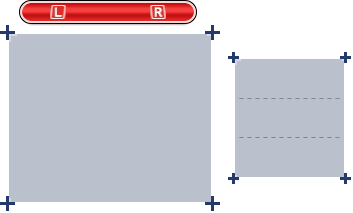
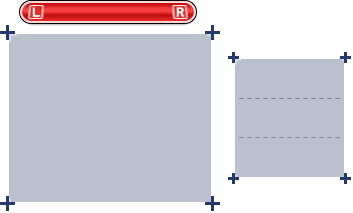
Fixing top bank graphic to have more space. Fixing Event Wondercard to add support of Yes and No buttons. Adding some support of Multi Language on Hex Editor

Changed region(s): [[0.4051, 0.0, 0.5297, 0.1127], [0.0623, 0.0, 0.187, 0.1127]]

diff --git a/source/graphic.c b/source/graphic.c
@@ -41,7 +41,7 @@ int logo_lookup5[5] = {0, 53, 104, 176, 252};
 
 int lookup[] = {0x0, 0x1, 0x2, 0x4, 0x5, 0x3};
 
-int MAX_LENGTH_BOX_NAME = 12;
+int MAX_LENGTH_BOX_NAME = 15;
 
 sftd_font *unicodeJPN12, *unicodeKOR12, *fontBold18, *fontBold15, *fontBold14, *fontBold12, *fontBold11, *fontBold9, *fontFixed; 
 sf2d_texture *noMove, *hexIcon, *hexBG, *blueTextBox, *otaButton, *generationBG, *includeInfoButton, *hiddenPowerBG, *ballsBG, *male, *female, *naturestx, *movesBottom, *topMovesBG, *editorBar, *editorStatsBG, *subArrow, *backgroundTop, *miniBox, *plusButton, *minusButton, *balls, *typesSheet, *transferButton, *bankTop, *shinyStar, *normalBar, *LButton, *RButton, *creditsTop, *pokeball, *gameSelectorBottom1, *gameSelectorBottom2, *gameSelectorTop, *menuBar, *menuSelectedBar, *darkButton, *eventTop, *left, *lightButton, *redButton, *right, *spritesSmall, *eventMenuBottomBar, *eventMenuTopBarSelected, *eventMenuTopBar, *warningTop, *warningBottom, *boxView, *infoView, *selector, *editorBG, *plus, *minus, *back, *setting, *selectorCloning, *button, *bottomPopUp, *pokemonBufferBox, *DSBottomBG, *DSTopBG, *DSBarSelected, *DSBar, *DSEventBottom, *DSLangSelected, *DSLang, *DSEventTop, *DSNormalBarL, *DSNormalBarR, *DSSelectedBarL, *DSSelectedBarR, *settings, *item, *alternativeSpritesSmall;
@@ -928,10 +928,10 @@ void printDB7(int sprite, int i, bool langVett[], bool adapt, bool overwrite, in
 		
 		sf2d_draw_texture(darkButton, 229, 168);	
 		
-		sftd_draw_text(fontBold14, 210 + (36 - sftd_get_text_width(fontBold14, 14, "Yes")) / 2, 112, (overwrite) ? DARKBLUE : YELLOW, 14, "Yes");
-		sftd_draw_text(fontBold14, 249 + (36 - sftd_get_text_width(fontBold14, 14, "No")) / 2, 112, (!overwrite) ? DARKBLUE : YELLOW, 14, "No");
-		sftd_draw_text(fontBold14, 210 + (36 - sftd_get_text_width(fontBold14, 14, "Yes")) / 2, 140, (adapt) ? DARKBLUE : YELLOW, 14, "Yes");
-		sftd_draw_text(fontBold14, 249 + (36 - sftd_get_text_width(fontBold14, 14, "No")) / 2, 140, (!adapt) ? DARKBLUE : YELLOW, 14, "No");
+		sftd_draw_wtext(fontBold14, 210 + (36 - sftd_get_wtext_width(fontBold14, 14, i18n(S_BUTTON_YES))) / 2, 112, (overwrite) ? DARKBLUE : YELLOW, 14, i18n(S_BUTTON_YES));
+		sftd_draw_wtext(fontBold14, 249 + (36 - sftd_get_wtext_width(fontBold14, 14, i18n(S_BUTTON_NO))) / 2, 112, (!overwrite) ? DARKBLUE : YELLOW, 14, i18n(S_BUTTON_NO));
+		sftd_draw_wtext(fontBold14, 210 + (36 - sftd_get_wtext_width(fontBold14, 14, i18n(S_BUTTON_YES))) / 2, 140, (adapt) ? DARKBLUE : YELLOW, 14, i18n(S_BUTTON_YES));
+		sftd_draw_wtext(fontBold14, 249 + (36 - sftd_get_wtext_width(fontBold14, 14, i18n(S_BUTTON_NO))) / 2, 140, (!adapt) ? DARKBLUE : YELLOW, 14, i18n(S_BUTTON_NO));
 		sftd_draw_text(fontBold14, 229 + (36 - sftd_get_text_width(fontBold14, 14, cont)) / 2, 170, YELLOW, 14, cont);
 		
 		printBottomIndications(i18n(S_GRAPHIC_DB_INDICATIONS_INJECT));
@@ -1658,7 +1658,7 @@ void printPKEditor(u8* pkmn, int game, int additional1, int additional2, int add
 void printPKBank(u8* bankbuf, u8* mainbuf, u8* pkmnbuf, int game, int currentEntry, int saveBox, int bankBox, bool isBufferized, bool isSeen) {
 	int x, y;
 	int pointer[2] = {0, 0};
-	wchar_t* page = (wchar_t*)malloc(10 * sizeof(wchar_t));
+	wchar_t* page = (wchar_t*)malloc(MAX_LENGTH_BOX_NAME+1 * sizeof(wchar_t));
 	bool isKor = (pkmnbuf[0xE3] == 0x08) ? true : false;
 	
 	u8* pkmn = (u8*)malloc(PKMNLENGTH * sizeof(u8));
@@ -1673,7 +1673,7 @@ void printPKBank(u8* bankbuf, u8* mainbuf, u8* pkmnbuf, int game, int currentEnt
 		} else {
 			printAnimatedBG(true);
 			sf2d_draw_texture(bankTop, 34, 5);
-			swprintf(page, 10, i18n(S_GRAPHIC_PKBANK_BANK_TITLE), bankBox + 1);
+			swprintf(page, MAX_LENGTH_BOX_NAME+1, i18n(S_GRAPHIC_PKBANK_BANK_TITLE), bankBox + 1);
 			sftd_draw_wtext(fontBold12, 55 + (178 - sftd_get_wtext_width(fontBold12, 12, page)) / 2, 9, WHITE, 12, page);
 
 			if (getPokedexNumber(pkmn) > 0 && getPokedexNumber(pkmn) < 822) {
@@ -1754,7 +1754,7 @@ void printPKBank(u8* bankbuf, u8* mainbuf, u8* pkmnbuf, int game, int currentEnt
 	sf2d_start_frame(GFX_BOTTOM, GFX_LEFT);
 		sf2d_draw_texture(boxView, 0, 0);
 		sf2d_draw_texture(editorBar, 0, 210);
-		swprintf(page, 10, i18n(S_GRAPHIC_PKBANK_SAVED_BOX_TITLE), saveBox + 1);
+		swprintf(page, MAX_LENGTH_BOX_NAME+1, i18n(S_GRAPHIC_PKBANK_SAVED_BOX_TITLE), saveBox + 1);
 		sftd_draw_wtext(fontBold12, 12 + (178 - sftd_get_wtext_width(fontBold12, 12, page)) / 2, 19, WHITE, 12, page);
 		sf2d_draw_texture(left, 7, 17);
 		sf2d_draw_texture(right, 185, 17);
@@ -1872,8 +1872,7 @@ void printSettings(int box) {
 		snprintf(size, 5, "%d", box);
 		sftd_draw_text(fontBold11, 189 + (36 - (sftd_get_text_width(fontBold11, 11, size))) / 2, 68, WHITE, 11, size);
 		free(size);
-
-		sftd_draw_wtext(fontBold9, 85, 225, LIGHTBLUE, 9, i18n(S_GRAPHIC_SETTINGS_INDICATION));
+		printBottomIndications(i18n(S_GRAPHIC_SETTINGS_INDICATION));
 	pksm_end_frame();
 	sf2d_swapbuffers();
 }
@@ -1887,39 +1886,39 @@ void printfHexEditorInfo(u8* pkmn, int byte) {
 	switch (byte) {
 		case 0x08 :
 		case 0x09 :
-			sftd_draw_wtextf(fontBold12, x, y, LIGHTBLUE, 12, L"Species: #%d - %ls", getPokedexNumber(pkmn), listSpecies.items[getPokedexNumber(pkmn)]);
+			sftd_draw_wtextf(fontBold12, x, y, LIGHTBLUE, 12, i18n(S_GRAPHIC_HEXEDITOR_SPECIES), getPokedexNumber(pkmn), listSpecies.items[getPokedexNumber(pkmn)]);
 			break;
 		case 0x0A :
 		case 0x0B :
-			sftd_draw_wtextf(fontBold12, x, y, LIGHTBLUE, 12, L"Held Item: #%d - %ls", getItem(pkmn), items[getItem(pkmn)]);
+			sftd_draw_wtextf(fontBold12, x, y, LIGHTBLUE, 12, i18n(S_GRAPHIC_HEXEDITOR_HELD_ITEM), getItem(pkmn), items[getItem(pkmn)]);
 			break;
 		case 0x0C :
 		case 0x0D :
-			sftd_draw_textf(fontBold12, x, y, LIGHTBLUE, 12, "TID: %d", getOTID(pkmn));
+			sftd_draw_textf(fontBold12, x, y, LIGHTBLUE, 12, i18n(S_GRAPHIC_HEXEDITOR_TID), getOTID(pkmn));
 			break;
 		case 0x0E :
 		case 0x0F :
-			sftd_draw_textf(fontBold12, x, y, LIGHTBLUE, 12, "SID: %d", getSOTID(pkmn));
+			sftd_draw_textf(fontBold12, x, y, LIGHTBLUE, 12, i18n(S_GRAPHIC_HEXEDITOR_SID), getSOTID(pkmn));
 			break;
 		case 0x14 :
-			sftd_draw_wtextf(fontBold12, x, y, LIGHTBLUE, 12, L"Ability: %ls", abilities[getAbility(pkmn)]);
+			sftd_draw_wtextf(fontBold12, x, y, LIGHTBLUE, 12, i18n(S_GRAPHIC_HEXEDITOR_ABILITY), abilities[getAbility(pkmn)]);
 			break;
 		case 0x1C :
-			sftd_draw_wtextf(fontBold12, x, y, LIGHTBLUE, 12, L"Nature: %ls", natures[getNature(pkmn)]);
+			sftd_draw_wtextf(fontBold12, x, y, LIGHTBLUE, 12, i18n(S_GRAPHIC_HEXEDITOR_NATURE), natures[getNature(pkmn)]);
 			break;
 		case 0x1D : {
-			char* entries[] = { "Fateful Encounter flag" };
-			int i = sftd_get_text_width(fontBold12, 12, "Gender: ");
-			sftd_draw_text(fontBold12, xribbon + 27, y, LIGHTBLUE, 12, entries[0]);
+			wchar_t* entries[] = { i18n(S_GRAPHIC_HEXEDITOR_FATEFUL_ENCOUNTER_FLAG) };
+			int i = sftd_get_wtext_width(fontBold12, 12, i18n(S_GRAPHIC_HEXEDITOR_GENDER));
+			sftd_draw_wtext(fontBold12, xribbon + 27, y, LIGHTBLUE, 12, entries[0]);
 			sf2d_draw_rectangle(xribbon, y, 13, 13, (pkmn[byte] & 1) ? BUTTONGREEN : BUTTONRED);
-			sftd_draw_text(fontBold12, x, y + 17, LIGHTBLUE, 12, "Gender: ");
+			sftd_draw_wtext(fontBold12, x, y + 17, LIGHTBLUE, 12, i18n(S_GRAPHIC_HEXEDITOR_GENDER));
 			if (getGender(pkmn) == 0)
-				sftd_draw_text(fontBold12, x + i, y + 17, LIGHTBLUE, 12, "male");
+				sftd_draw_wtext(fontBold12, x + i, y + 17, LIGHTBLUE, 12, i18n(S_GRAPHIC_HEXEDITOR_GENDER_MALE));
 			else if (getGender(pkmn) == 1)
-				sftd_draw_text(fontBold12, x + i, y + 17, LIGHTBLUE, 12, "female");
+				sftd_draw_wtext(fontBold12, x + i, y + 17, LIGHTBLUE, 12, i18n(S_GRAPHIC_HEXEDITOR_GENDER_FEMALE));
 			else
-				sftd_draw_text(fontBold12, x + i, y + 17, LIGHTBLUE, 12, "genderless");
-			sftd_draw_textf(fontBold12, x, y + 17 * 2, LIGHTBLUE, 12, "Alternative Form: #%d", pkmn[byte] >> 3);
+				sftd_draw_wtext(fontBold12, x + i, y + 17, LIGHTBLUE, 12, i18n(S_GRAPHIC_HEXEDITOR_GENDER_GENDERLESS));
+			sftd_draw_wtextf(fontBold12, x, y + 17 * 2, LIGHTBLUE, 12, i18n(S_GRAPHIC_HEXEDITOR_ALTERNATIVE_FORM), pkmn[byte] >> 3);
 			break;
 		}
 		case 0x1E :

diff --git a/source/i18n.h b/source/i18n.h
@@ -320,6 +320,23 @@ typedef enum {
 	S_GRAPHIC_SETTINGS_BACKUP_BANK,                   // Line 206
 	S_GRAPHIC_SETTINGS_INDICATION,                    // Line 207
 
+	S_BUTTON_YES,                                     // Line 208
+	S_BUTTON_NO,                                      // Line 209
+
+	S_GRAPHIC_HEXEDITOR_SPECIES,                      // Line 210
+	S_GRAPHIC_HEXEDITOR_HELD_ITEM,                    // Line 211
+	S_GRAPHIC_HEXEDITOR_TID,                          // Line 212
+	S_GRAPHIC_HEXEDITOR_SID,                          // Line 213
+	S_GRAPHIC_HEXEDITOR_ABILITY,                      // Line 214
+	S_GRAPHIC_HEXEDITOR_NATURE,                       // Line 215
+
+	S_GRAPHIC_HEXEDITOR_FATEFUL_ENCOUNTER_FLAG,       // Line 216
+	S_GRAPHIC_HEXEDITOR_GENDER,                       // Line 217
+	S_GRAPHIC_HEXEDITOR_GENDER_MALE,                  // Line 218
+	S_GRAPHIC_HEXEDITOR_GENDER_FEMALE,                // Line 219
+	S_GRAPHIC_HEXEDITOR_GENDER_GENDERLESS,            // Line 220
+	S_GRAPHIC_HEXEDITOR_ALTERNATIVE_FORM,             // Line 221
+
 } AppTextCode;
 
 
